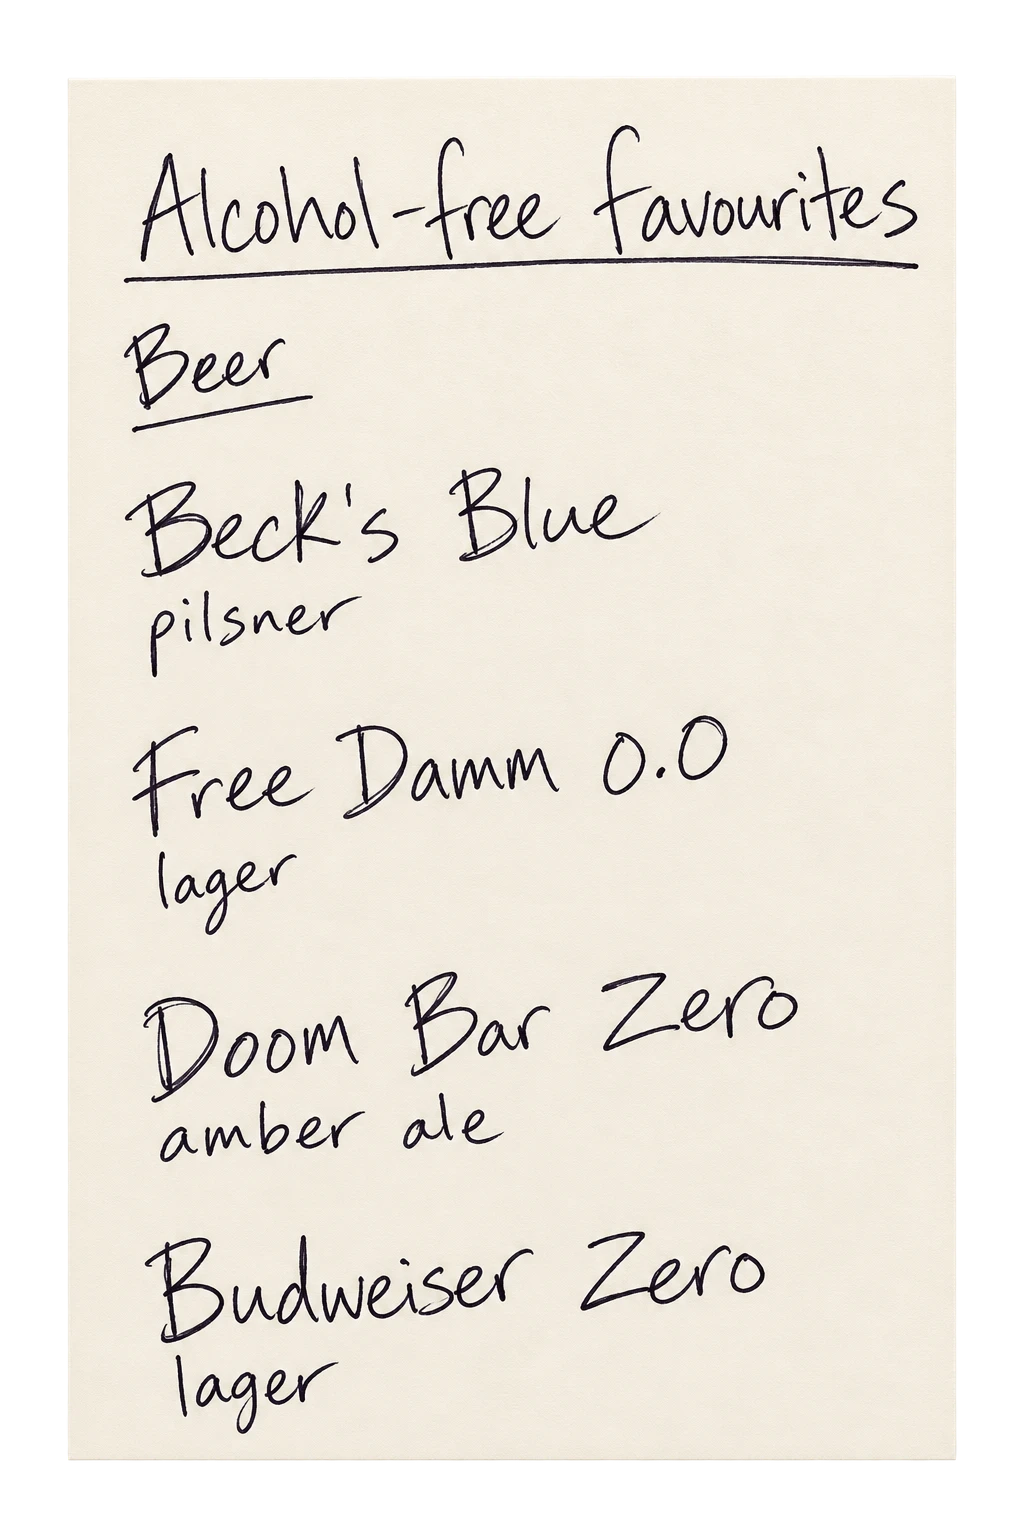
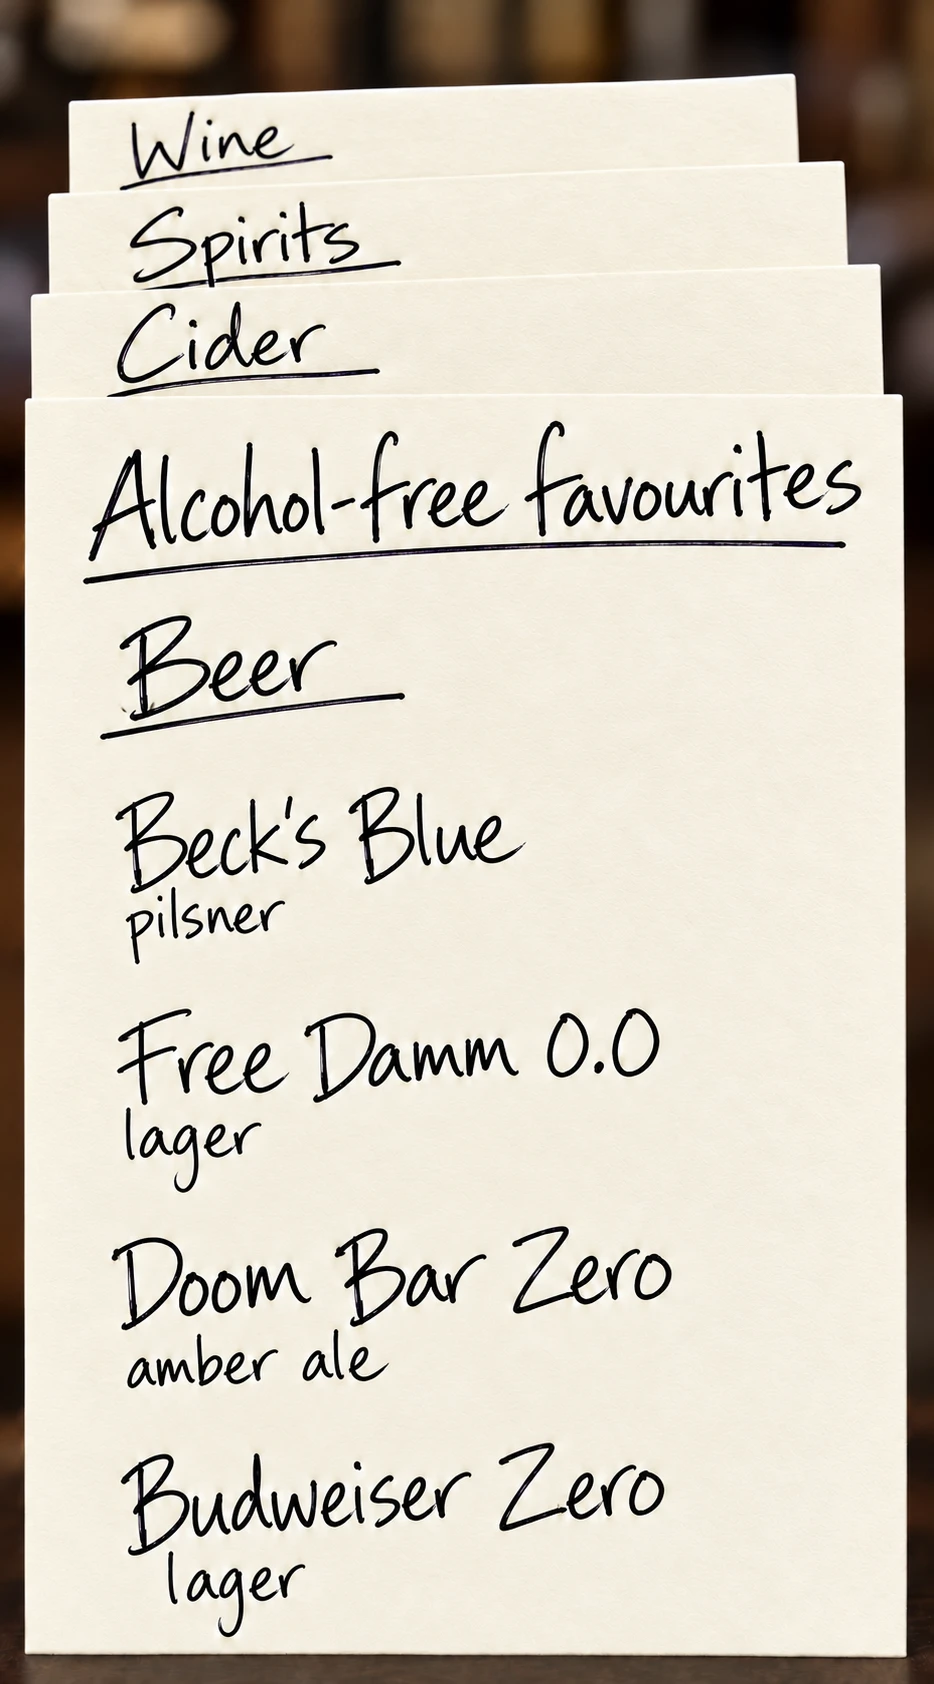
feat(hub): 0.0 alcohol-free deck (kitchen) — 4 flippable cards, links baked
Add the 0.0 deck as 4 close-up nodes (Beer -> Cider -> Spirits -> Wine), flipped
with the left/right arrows. Each brand name is an invisible tap (plain+noRing)
wired to that brand's official site via the link action. The kitchen '0,0' card
opens the Beer card first; its counter preview shows the deck stack.

16 brands sourced to official domains (becks.com, damm.com, sharpsbrewery.co.uk,
budweiser.co.uk, thatcherscider.co.uk, kopparberg.co.uk, tanqueray.com,
captainmorgan.com product page, clean.co, mcguiganwines.co.uk, freixenet.com).

Note: card art came in 934x1684 / 1024x1536 (not 851x1847) so cards crop a little
until resent; tap positions are first-pass estimates to nudge.

Claude-Session: https://claude.ai/code/session_01KKhQMghLUspva6Yzs31jQ3

diff --git a/src/data/hubScene.ts b/src/data/hubScene.ts
@@ -354,7 +354,7 @@ export const HUB_NODES: Record<string, HubNode> = {
     hotspots: [
       { id: "kr_keys", caption: "Need a minute?", kind: "glow", tint: "purple", interaction: "destination", haptic: "heavy", x: 0.219, y: 0.202, w: 0.185, h: 0.195, action: { kind: "forest", mode: "jump" } },
       { id: "kr_woods", caption: "Forest walk", kind: "glow", tint: "purple", interaction: "destination", haptic: "medium", x: 0.524, y: 0.374, w: 0.133, h: 0.059, action: { kind: "node", node: "forest_canopy" } },
-      { id: "kr_recommendations", caption: "0.0 favourites", kind: "label", label: "0,0", inlay: "note_0_0_beer", rotate: -50, x: 0.679, y: 0.381, w: 0.108, h: 0.082, action: { kind: "route", route: "/support/recommendations" } },
+      { id: "kr_recommendations", caption: "0.0 favourites", kind: "label", label: "0,0", inlay: "note_0_0_beer", rotate: -50, x: 0.679, y: 0.381, w: 0.108, h: 0.082, action: { kind: "node", node: "zerozero_beer" } },
       { id: "kr_mocktails", caption: "Mocktails", kind: "label", label: "Mocktails", inlay: "note_mocktails", labelSize: 11, rotate: -50, x: 0.771, y: 0.385, w: 0.114, h: 0.073, action: { kind: "route", route: "/bar/menu" } },
       { id: "kr_woods_title", caption: "Forest walk", kind: "label", label: "Forest Walk", rotate: -25, rotateY: -28, x: 0.420, y: 0.108, w: 0.200, h: 0.080 },
       { id: "kr_connections", caption: "Your people", kind: "glow", tint: "purple", interaction: "object", haptic: "light", x: 0.291, y: 0.459, w: 0.141, h: 0.127, action: { kind: "route", route: "/profile/connections" } },
@@ -604,6 +604,61 @@ export const HUB_NODES: Record<string, HubNode> = {
       { id: "res_out_7cups", caption: "7 Cups", kind: "plain", noRing: true, x: 0.520, y: 0.510, w: 0.420, h: 0.050, action: { kind: "link", url: "https://www.7cups.com" } },
       { id: "res_out_aameet", caption: "AA meetings", kind: "plain", noRing: true, x: 0.520, y: 0.595, w: 0.420, h: 0.050, action: { kind: "link", url: "https://www.alcoholics-anonymous.org.uk/aa-meetings/find-a-meeting" } },
       { id: "res_out_smart", caption: "SMART Recovery", kind: "plain", noRing: true, x: 0.520, y: 0.640, w: 0.420, h: 0.050, action: { kind: "link", url: "https://smartrecovery.org.uk" } },
+    ],
+  },
+
+
+  // === 0.0 ALCOHOL-FREE DECK (kitchen counter close-up) ====================
+  // 0.0 deck — Beer card. Flip with the arrows; each name taps to its site.
+  zerozero_beer: {
+    id: "zerozero_beer", title: "0.0 — Beer",
+    image: require("../../assets/scenes/zerozero_beer.png"),
+    imgW: 1024, imgH: 1536, fit: "screen",
+    right: "zerozero_cider",
+    hotspots: [
+      { id: "zzb_becks", caption: "Beck's Blue", kind: "plain", noRing: true, x: 0.060, y: 0.320, w: 0.720, h: 0.110, action: { kind: "link", url: "https://www.becks.com" } },
+      { id: "zzb_freedamm", caption: "Free Damm 0.0", kind: "plain", noRing: true, x: 0.060, y: 0.470, w: 0.720, h: 0.110, action: { kind: "link", url: "https://www.damm.com" } },
+      { id: "zzb_doombar", caption: "Doom Bar Zero", kind: "plain", noRing: true, x: 0.060, y: 0.620, w: 0.720, h: 0.110, action: { kind: "link", url: "https://www.sharpsbrewery.co.uk" } },
+      { id: "zzb_budweiser", caption: "Budweiser Zero", kind: "plain", noRing: true, x: 0.060, y: 0.790, w: 0.720, h: 0.110, action: { kind: "link", url: "https://www.budweiser.co.uk" } },
+    ],
+  },
+  // 0.0 deck — Cider card. Flip with the arrows; each name taps to its site.
+  zerozero_cider: {
+    id: "zerozero_cider", title: "0.0 — Cider",
+    image: require("../../assets/scenes/zerozero_cider.png"),
+    imgW: 934, imgH: 1684, fit: "screen",
+    left: "zerozero_beer", right: "zerozero_spirits",
+    hotspots: [
+      { id: "zzc_thatchers_zero", caption: "Thatchers Zero", kind: "plain", noRing: true, x: 0.060, y: 0.230, w: 0.820, h: 0.110, action: { kind: "link", url: "https://www.thatcherscider.co.uk" } },
+      { id: "zzc_thatchers_blood", caption: "Thatchers Blood Orange 0.0", kind: "plain", noRing: true, x: 0.060, y: 0.400, w: 0.900, h: 0.110, action: { kind: "link", url: "https://www.thatcherscider.co.uk" } },
+      { id: "zzc_kopp_straw", caption: "Kopparberg Strawberry & Lime", kind: "plain", noRing: true, x: 0.060, y: 0.560, w: 0.880, h: 0.150, action: { kind: "link", url: "https://www.kopparberg.co.uk" } },
+      { id: "zzc_kopp_mixed", caption: "Kopparberg Mixed Fruit", kind: "plain", noRing: true, x: 0.060, y: 0.780, w: 0.880, h: 0.150, action: { kind: "link", url: "https://www.kopparberg.co.uk" } },
+    ],
+  },
+  // 0.0 deck — Spirits card. Flip with the arrows; each name taps to its site.
+  zerozero_spirits: {
+    id: "zerozero_spirits", title: "0.0 — Spirits",
+    image: require("../../assets/scenes/zerozero_spirits.png"),
+    imgW: 934, imgH: 1684, fit: "screen",
+    left: "zerozero_cider", right: "zerozero_wine",
+    hotspots: [
+      { id: "zzs_tanqueray", caption: "Tanqueray 0.0", kind: "plain", noRing: true, x: 0.060, y: 0.250, w: 0.720, h: 0.110, action: { kind: "link", url: "https://www.tanqueray.com" } },
+      { id: "zzs_captain", caption: "Captain Morgan Spiced Gold 0.0", kind: "plain", noRing: true, x: 0.060, y: 0.420, w: 0.820, h: 0.160, action: { kind: "link", url: "https://www.captainmorgan.com/en-gb/our-spirits/captain-morgan-spiced-gold-0-0-alcohol-free-spirit/" } },
+      { id: "zzs_cleanw", caption: "CleanCo Clean W", kind: "plain", noRing: true, x: 0.060, y: 0.660, w: 0.720, h: 0.110, action: { kind: "link", url: "https://www.clean.co" } },
+      { id: "zzs_cleant", caption: "CleanCo Clean T", kind: "plain", noRing: true, x: 0.060, y: 0.830, w: 0.720, h: 0.110, action: { kind: "link", url: "https://www.clean.co" } },
+    ],
+  },
+  // 0.0 deck — Wine card. Flip with the arrows; each name taps to its site.
+  zerozero_wine: {
+    id: "zerozero_wine", title: "0.0 — Wine",
+    image: require("../../assets/scenes/zerozero_wine.png"),
+    imgW: 934, imgH: 1684, fit: "screen",
+    left: "zerozero_spirits",
+    hotspots: [
+      { id: "zzw_shiraz", caption: "McGuigan Zero Shiraz", kind: "plain", noRing: true, x: 0.060, y: 0.250, w: 0.860, h: 0.110, action: { kind: "link", url: "https://www.mcguiganwines.co.uk" } },
+      { id: "zzw_sauv", caption: "McGuigan Zero Sauvignon Blanc", kind: "plain", noRing: true, x: 0.060, y: 0.420, w: 0.820, h: 0.160, action: { kind: "link", url: "https://www.mcguiganwines.co.uk" } },
+      { id: "zzw_rose", caption: "McGuigan Zero Rose", kind: "plain", noRing: true, x: 0.060, y: 0.620, w: 0.820, h: 0.110, action: { kind: "link", url: "https://www.mcguiganwines.co.uk" } },
+      { id: "zzw_freixenet", caption: "Freixenet 0.0 Sparkling White", kind: "plain", noRing: true, x: 0.060, y: 0.790, w: 0.860, h: 0.150, action: { kind: "link", url: "https://www.freixenet.com" } },
     ],
   },
 
